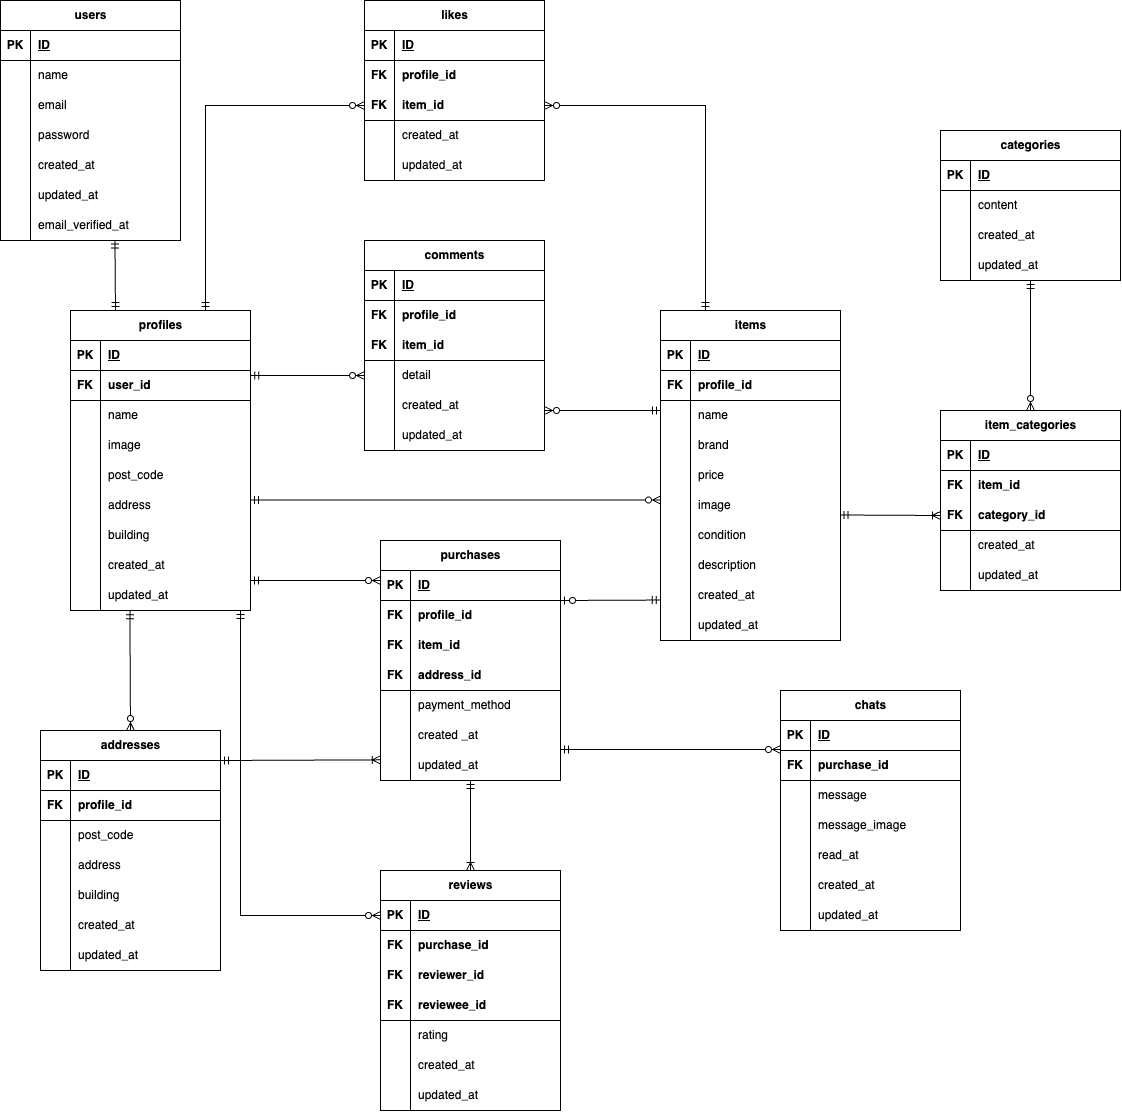
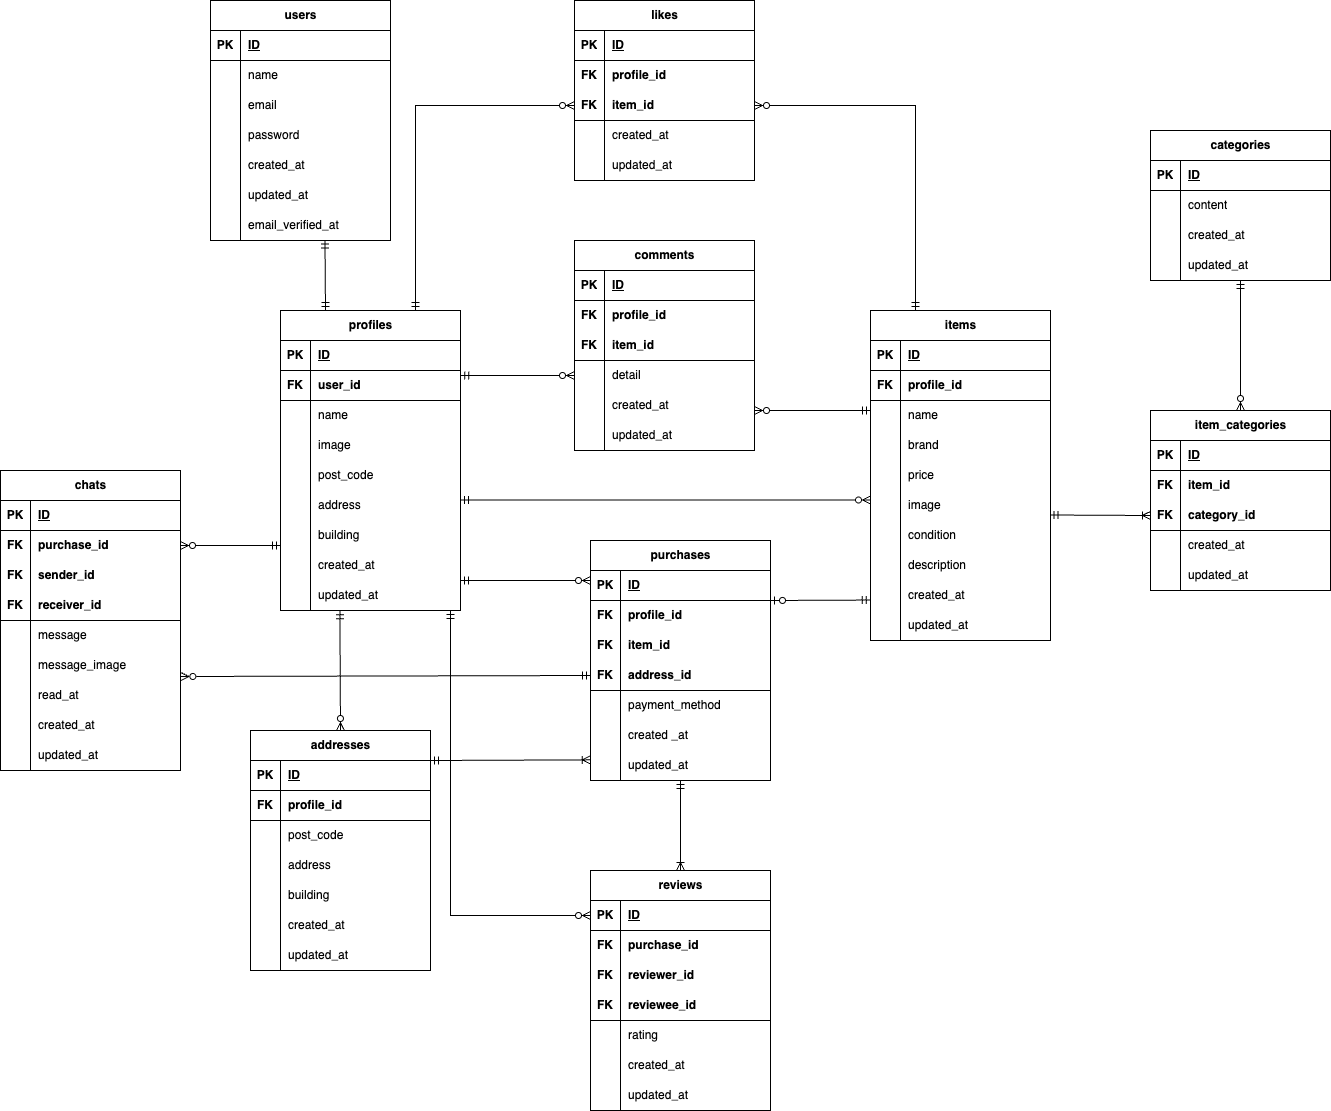
チャット機能の実装

diff --git a/src/public/css/chat.css b/src/public/css/chat.css
@@ -4,7 +4,7 @@
 
 .sidebar {
     width: 200px;
-    height: 100vh;
+    min-height: 100vh;
     background-color: #868686;
     text-align: center;
 }
@@ -146,13 +146,25 @@
     order: 0;
 }
 
-.message {
+.message,
+.send-image {
     margin-top: 5px;
     max-width: 40vw;
     padding: 8px 12px;
     border-radius: 4px;
     word-wrap: break-word;
     background-color: #D9D9D9;
+}
+
+.send-image {
+    width: 300px;
+}
+
+.send-image__path {
+    width: 100%;
+}
+
+.message {
     font-size: 1.7vw;
 }
 
@@ -176,22 +188,42 @@
     color: rgb(237, 66, 66);
 }
 
+.form-error {
+    margin: auto 30px 0 30px;
+    color: rgb(237, 66, 66);
+}
+
+.message-form {
+    display: flex;
+}
+
 .message-text {
     width: 65%;
     height: 40px;
-    margin: 10px 5px 10px 20px;
+    margin: 0 5px 10px 20px;
     border-radius: 4px;
     border: solid 1px #5F5F5F;
 }
 
 .add-image {
-    padding: 5px 10px;
-    border-radius: 10px;
+    display: none;
+}
+
+.upload__button {
+    height: 40px;
+    padding: 8px 10px;
     border: solid 2px #FF5555;
+    border-radius: 10px;
     color: #FF5555;
     background-color: #fff;
     font-size: 17px;
     font-weight: bold;
+    cursor: pointer;
+}
+
+.message-image {
+    width: 200px;
+    margin: 5px 20px;
 }
 
 .send-message {

diff --git a/src/resources/views/chat.blade.php b/src/resources/views/chat.blade.php
@@ -21,9 +21,9 @@
     <div class="main">
         <header class="main-header">
             <div class="image">
-                <img class="partner-image" src="{{ asset('img/default.png') }}">
+                <img class="partner-image" src="{{ $partner->image ? Storage::url($partner->image) : asset('img/default.png') }}" alt="アイコン">
             </div>
-            <h2 class="title">「ユーザー名」さんとの取引画面</h2>
+            <h2 class="title">「{{ $partner->name }}」さんとの取引画面</h2>
             <div class="button">
                 <button class="completed-button">取引を完了する</button>
             </div>
@@ -36,40 +36,82 @@
             </div>
         </section>
         <section class="chat-area">
-            <div class="chat-message other">
-                <div class="user">
-                    <div class="user-icon">
-                        <img class="icon-image" src="{{ asset('img/default.png') }}">
+            @foreach($chats as $chat)
+                @if($chat->sender_id === $profileId)
+                <div class="chat-message self">
+                    <div class="user">
+                        <div class="user-icon">
+                            <img class="icon-image" src="{{ $profile->image ? Storage::url($profile->image) : asset('img/default.png') }}" alt="アイコン">
+                        </div>
+                        <div class="user-name">{{ $profile->name }}</div>
                     </div>
-                    <div class="user-name">ユーザー名</div>
-                </div>
-                <div class="message">
-                    相手のメッセージ
-                </div>
-            </div>
-            <div class="chat-message self">
-                <div class="user">
-                    <div class="user-icon">
-                        <img class="icon-image" src="{{ asset('img/default.png') }}">
+                    @if($chat->message_image)
+                        <div class="send-image">
+                            <img class="send-image__path" src="{{ asset('storage/' . $chat->message_image) }}" alt="送信画像">
+                        </div>
+                    @endif
+                    <div class="message">
+                        {{ $chat->message }}
                     </div>
-                    <div class="user-name">ユーザー名</div>
+                    <div class="chat-actions">
+                        <div class="edit">編集</div>
+                        <div class="delete">削除</div>
+                    </div>
                 </div>
-                <div class="message">
-                    自分のメッセージ
+                @else
+                <div class="chat-message other">
+                    <div class="user">
+                        <div class="user-icon">
+                            <img class="icon-image" src="{{ $partner->image ? Storage::url($partner->image) : asset('img/default.png') }}" alt="アイコン">
+                        </div>
+                        <div class="user-name">{{ $partner->name }}</div>
+                    </div>
+                    @if($chat->message_image)
+                        <div class="send-image">
+                            <img class="send-image__path" src="{{ asset('storage/' . $chat->message_image) }}" alt="送信画像">
+                        </div>
+                    @endif
+                    <div class="message">
+                        {{ $chat->message }}
+                    </div>
                 </div>
-                <div class="chat-actions">
-                    <div class="edit">編集</div>
-                    <div class="delete">削除</div>
-                </div>
-            </div>
+                @endif
+            @endforeach
         </section>
-        <form action="" class="message-form">
-            <input class="message-text" type="text" placeholder="取引メッセージを記入してください">
-            <button class="add-image" type="button">画像を追加</button>
+        <img class="message-image" id="add-image">
+        @if ($errors->any())
+            <div class="form-error">
+                @foreach ($errors->all() as $error)
+                    <p>{{ $error }}</p>
+                @endforeach
+            </div>
+        @endif
+        <form action="/mypage/chat/{{$item->id}}" method="POST" enctype="multipart/form-data" class="message-form">
+            @csrf
+            <input class="message-text" type="text" name="message" value="{{ old('message') }}" placeholder="取引メッセージを記入してください">
+            <input class="add-image" type="file" accept="image/*" name="message_image" id="file-input">
+            <label class="upload__button" for="file-input">画像を追加</label>
             <button class="send-message" type="submit">
                 <img class="send-icon" src="{{ asset('send.jpg') }}" alt="送信">
             </button>
         </form>
     </div>
 </div>
+
+<script>
+    const fileInput = document.getElementById('file-input');
+    const imagePreview = document.getElementById('add-image');
+
+    fileInput.addEventListener('change', function(event) {
+        const file = event.target.files[0];
+        if (file && file.type.startsWith('image/')) {
+            const reader = new FileReader();
+            reader.onload = function(e) {
+                imagePreview.src = e.target.result;
+                imagePreview.style.display = 'block';
+            };
+            reader.readAsDataURL(file);
+        }
+    });
+</script>
 @endsection

diff --git a/src/app/Http/Controllers/ChatController.php b/src/app/Http/Controllers/ChatController.php
@@ -3,8 +3,10 @@
 namespace App\Http\Controllers;
 
 use Illuminate\Http\Request;
+use App\Http\Requests\ChatRequest;
 use App\Models\Item;
 use App\Models\Purchase;
+use App\Models\Chat;
 use Illuminate\Support\Facades\Auth;
 
 class ChatController extends Controller
@@ -25,6 +27,37 @@ class ChatController extends Controller
         ->with(['item', 'reviewsWritten'])
         ->latest()->get();
 
-        return view('chat', compact('item', 'chatItems'));
+        $profile = Auth::user()->profile;
+        $purchase = Purchase::where('item_id', $item->id)->firstOrFail();
+        $chats = Chat::where('purchase_id', $purchase->id)
+            ->orderBy('created_at', 'asc')
+            ->get();
+
+        if ($purchase->profile->id === $profileId) {
+            $partner = $item->profile;
+        } else {
+            $partner = $purchase->profile;
+        }
+
+        return view('chat', compact('item', 'chatItems', 'chats', 'profileId', 'partner', 'profile'));
+    }
+
+    public function send(ChatRequest $request, $id)
+    {
+        $item = Item::findOrFail($id);
+        $purchase = Purchase::where('item_id', $item->id)->firstOrFail();
+        $profile = Auth::user()->profile;
+
+        $data = [
+            'purchase_id' => $purchase->id,
+            'sender_id' => $profile->id,
+            'receiver_id' => $item->profile->id,
+            'message' => $request->input('message'),
+        ];
+        if ($request->hasFile('message_image')) {
+            $data['message_image'] = $request->file('message_image')->store('img', 'public');
+        }
+        Chat::create($data);
+        return redirect('/mypage/chat/' . $item->id);
     }
 }

diff --git a/src/app/Http/Requests/ChatRequest.php b/src/app/Http/Requests/ChatRequest.php
@@ -1,0 +1,40 @@
+<?php
+
+namespace App\Http\Requests;
+
+use Illuminate\Foundation\Http\FormRequest;
+
+class ChatRequest extends FormRequest
+{
+    /**
+     * Determine if the user is authorized to make this request.
+     *
+     * @return bool
+     */
+    public function authorize()
+    {
+        return true;
+    }
+
+    /**
+     * Get the validation rules that apply to the request.
+     *
+     * @return array
+     */
+    public function rules()
+    {
+        return [
+            'message' => 'required | max:400',
+            'message_image' => 'nullable | mimes:jpeg,png',
+        ];
+    }
+
+    public function messages()
+    {
+        return [
+            'message.required' => '本文を入力してください',
+            'message.max' => '本文は400文字以内で入力してください',
+            'message_image.mimes' => '「.png」または「.jpeg」形式でアップロードしてください',
+        ];
+    }
+}

diff --git a/src/database/migrations/2025_08_09_160149_create_chats_table.php b/src/database/migrations/2025_08_09_160149_create_chats_table.php
@@ -16,6 +16,8 @@ class CreateChatsTable extends Migration
         Schema::create('chats', function (Blueprint $table) {
             $table->id();
             $table->foreignId('purchase_id')->constrained()->cascadeOnDelete();
+            $table->foreignId('sender_id')->constrained('profiles')->cascadeOnDelete();
+            $table->foreignId('receiver_id')->constrained('profiles')->cascadeOnDelete();
             $table->text('message');
             $table->string('message_image')->nullable();
             $table->datetime('read_at')->nullable();

diff --git a/src/app/Models/Chat.php b/src/app/Models/Chat.php
@@ -16,4 +16,19 @@ class Chat extends Model
     public function purchase(){
         return $this->belongsTo(Purchase::class);
     }
+
+    public function profile()
+    {
+        return $this->belongsTo(Profile::class);
+    }
+
+    public function sender()
+    {
+        return $this->belongsTo(Profile::class, 'sender_id');
+    }
+
+    public function receiver()
+    {
+        return $this->belongsTo(Profile::class, 'receiver_id');
+    }
 }

diff --git a/src/app/Models/Profile.php b/src/app/Models/Profile.php
@@ -46,6 +46,16 @@ class Profile extends Model
         return $this->hasMany(Chat::class);
     }
 
+    public function sentChats()
+    {
+        return $this->hasMany(Chat::class, 'sender_id');
+    }
+
+    public function receivedChats()
+    {
+        return $this->hasMany(Chat::class, 'receiver_id');
+    }
+
     public function reviewsWritten()
     {
         return $this->hasMany(Review::class, 'reviewer_id');

diff --git a/src/resources/views/layouts/app.blade.php b/src/resources/views/layouts/app.blade.php
@@ -15,7 +15,9 @@
     <header class="header">
         <div class="header__inner">
             <h1 class="header__logo">
-                <img src="{{ asset('logo.svg') }}" alt="logo" width="100%">
+                <a href="/">
+                    <img src="{{ asset('logo.svg') }}" alt="logo" width="100%">
+                </a>
             </h1>
         </div>
     </header>

diff --git a/src/routes/web.php b/src/routes/web.php
@@ -42,4 +42,5 @@ Route::middleware('auth', 'verified')->group(function () {
     Route::post('/sell', [ItemController::class, 'store']);
     Route::get('/mypage', [ProfileController::class, 'mypage']);
     Route::get('/mypage/chat/{item}', [ChatController::class, 'chat']);
+    Route::post('/mypage/chat/{item}', [ChatController::class, 'send']);
 });
